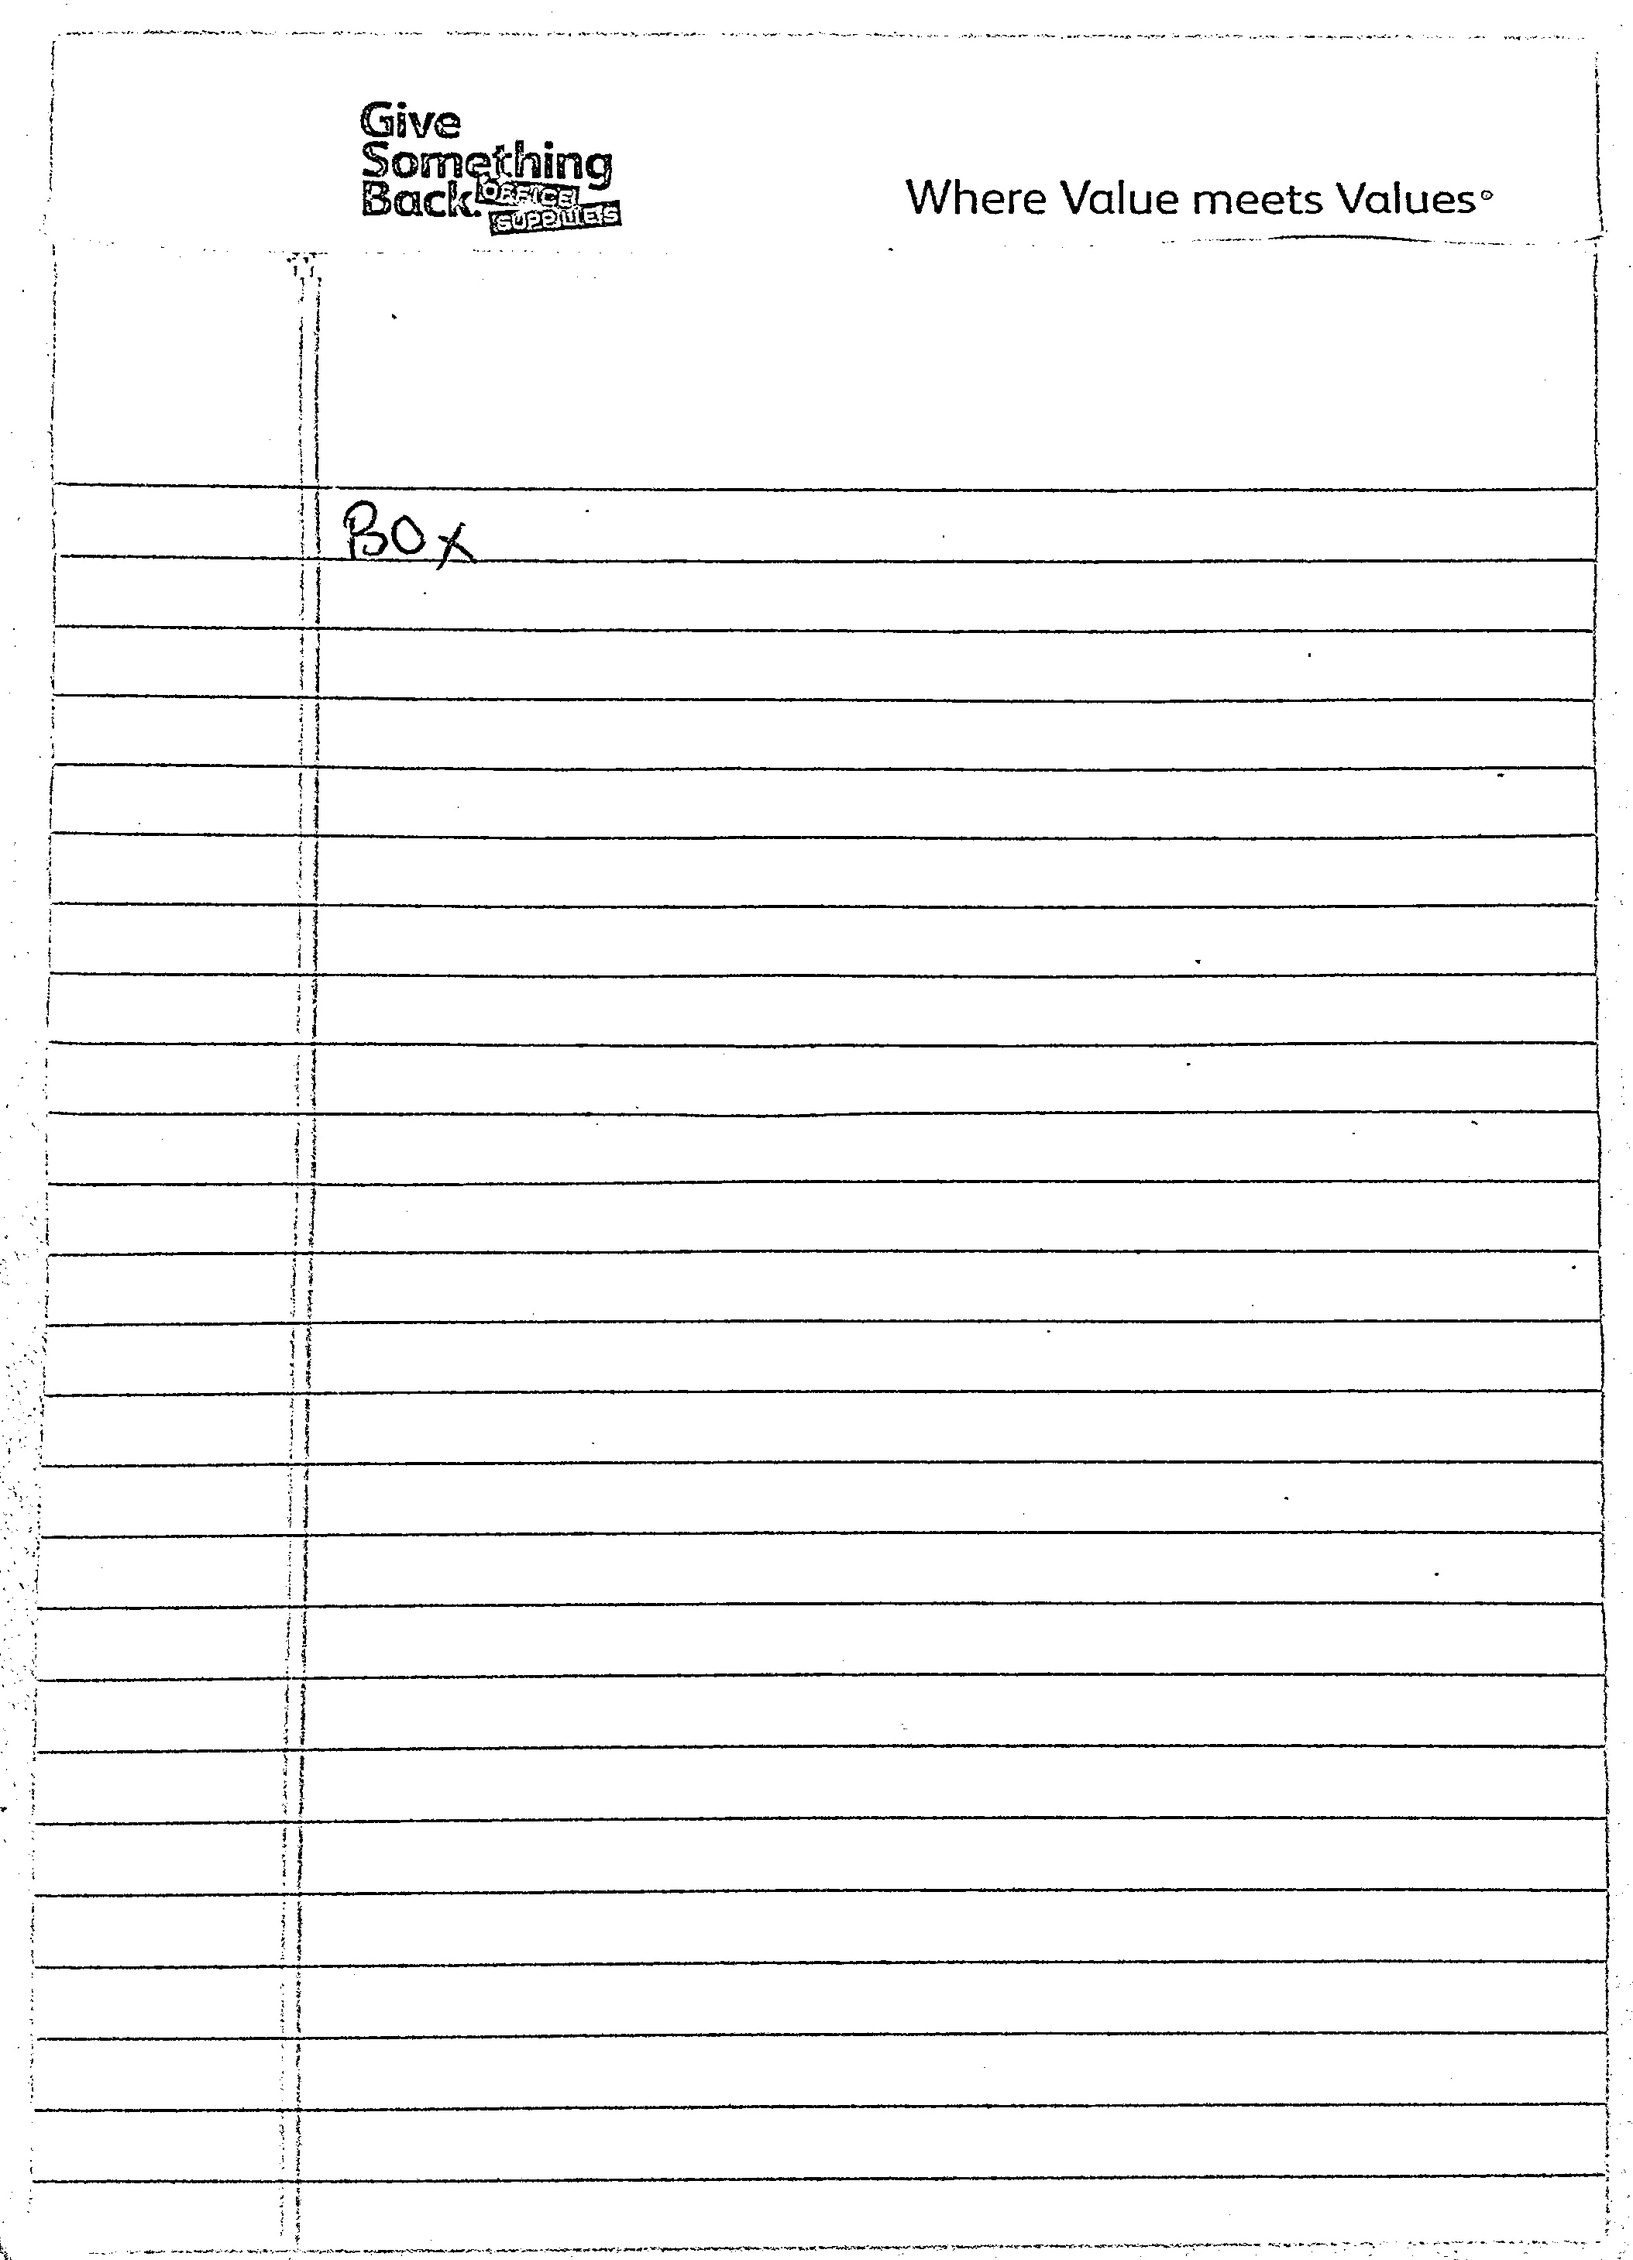
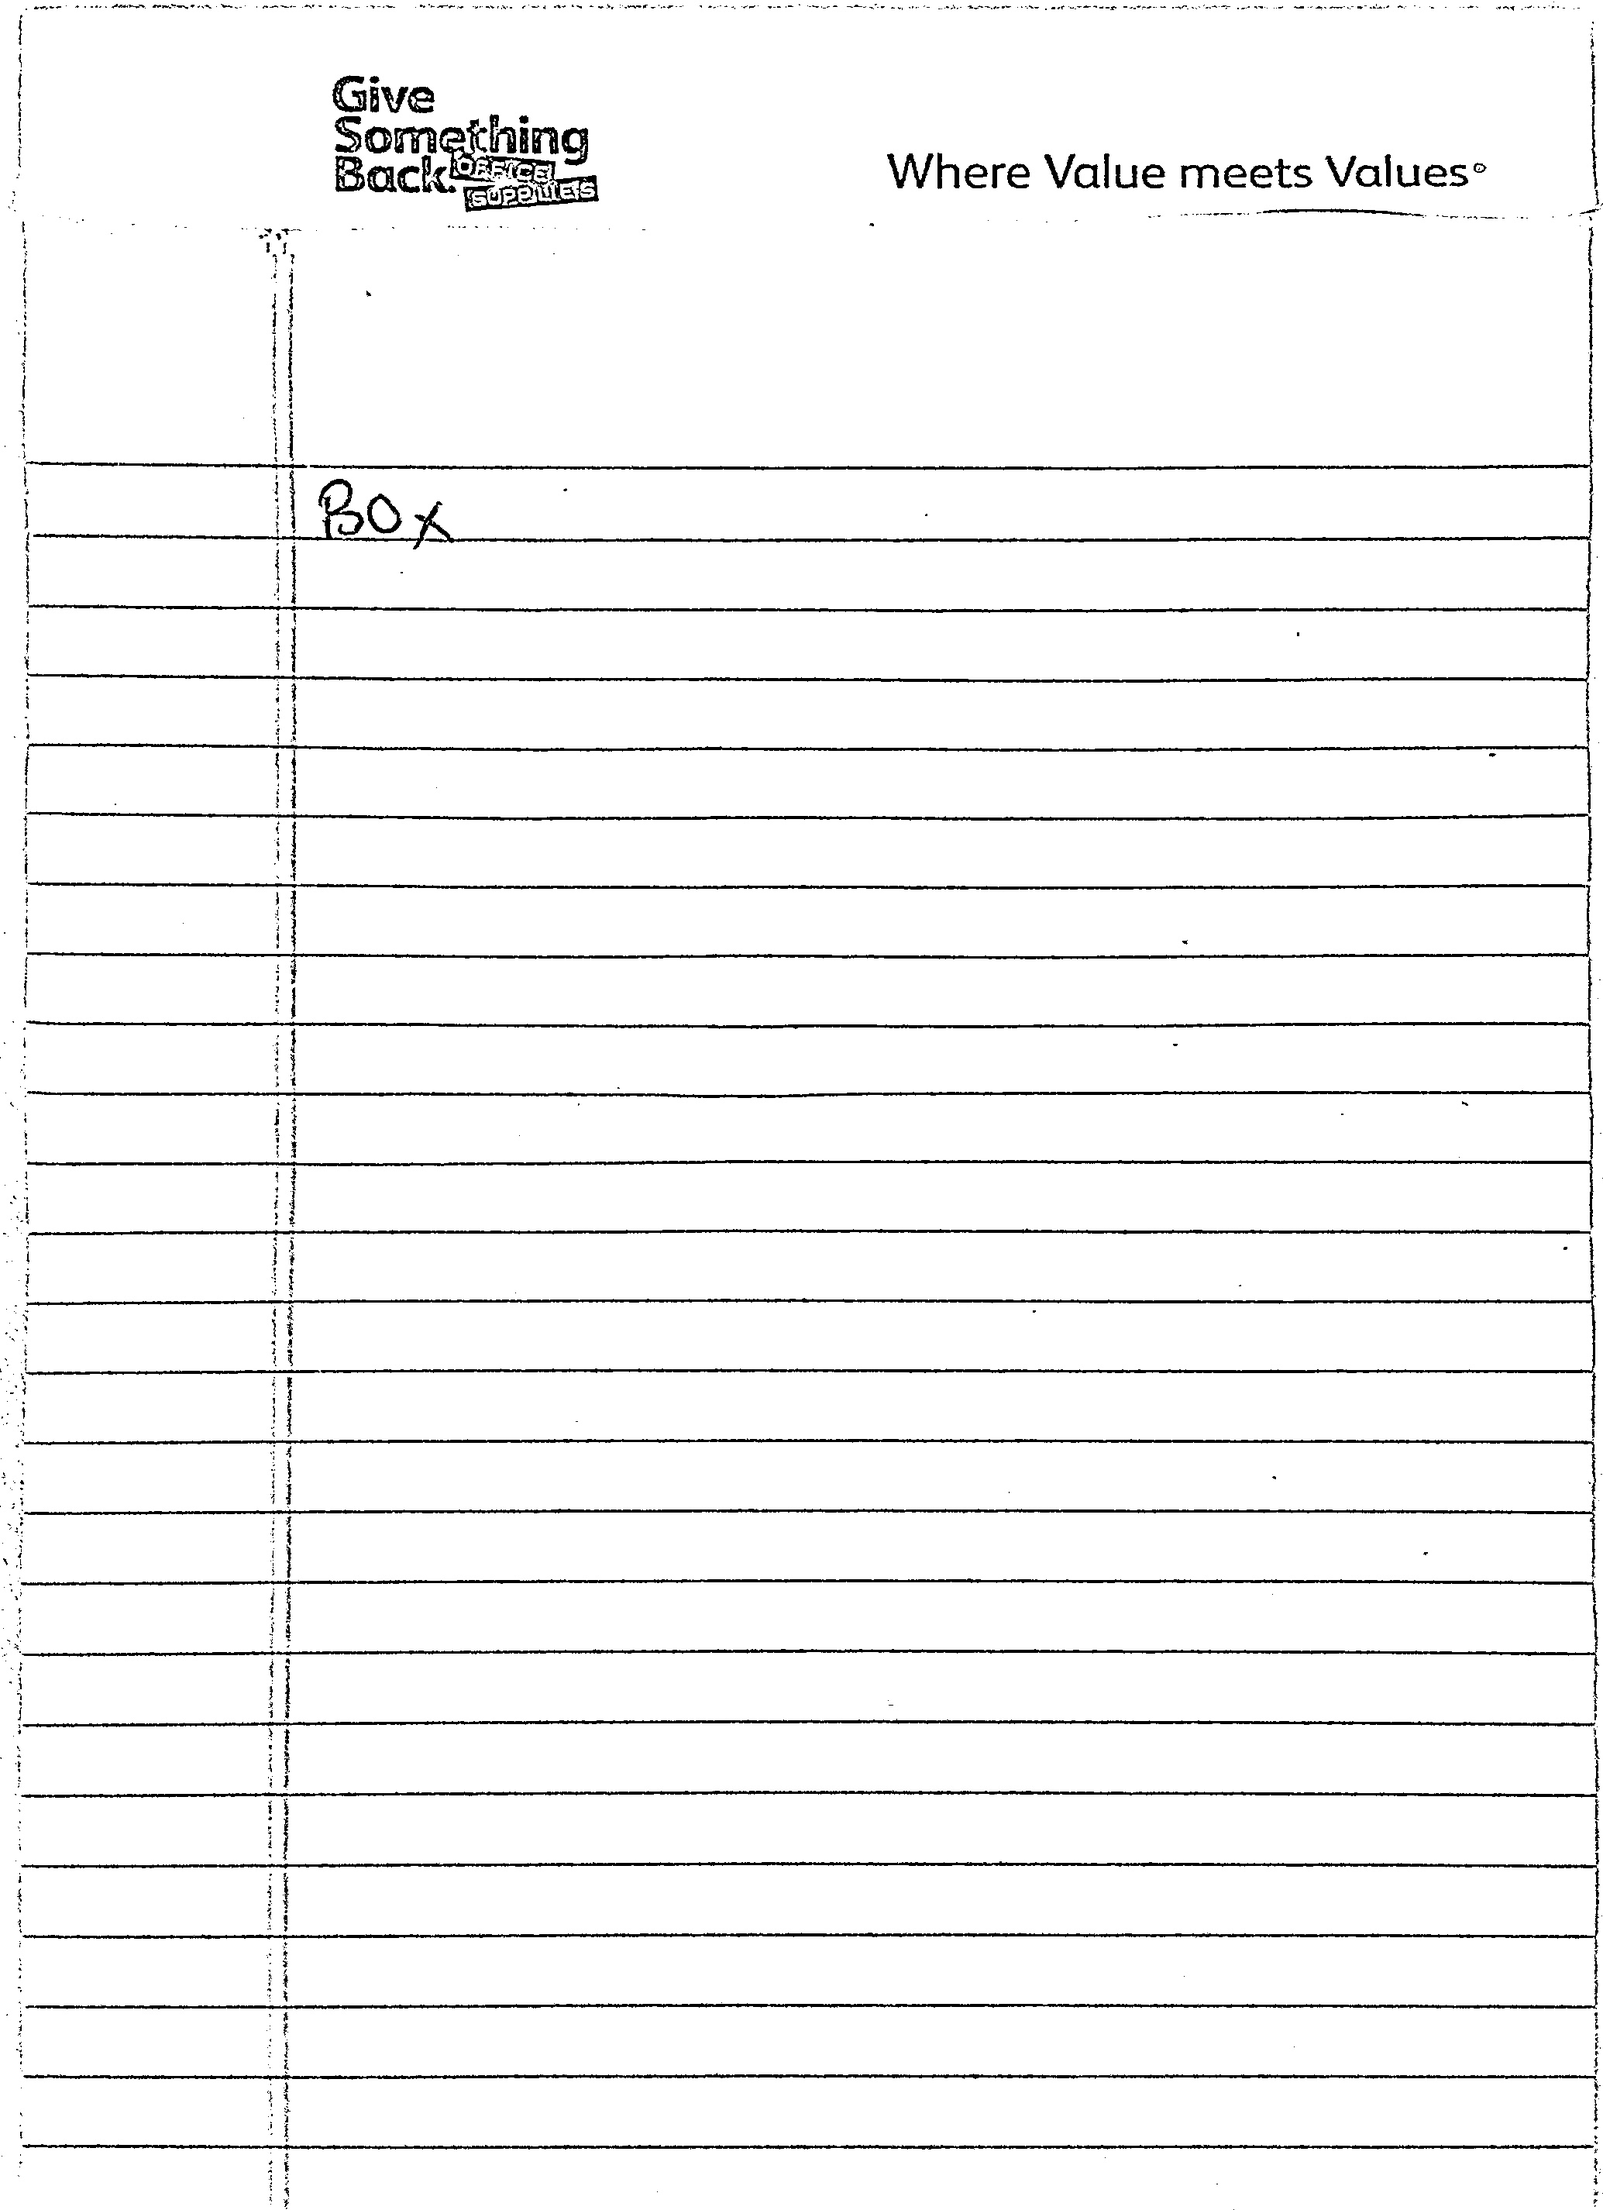
Add flag to preserve color

diff --git a/scan.py b/scan.py
@@ -25,7 +25,7 @@ import os
 class DocScanner(object):
     """An image scanner"""
 
-    def __init__(self, interactive=False, MIN_QUAD_AREA_RATIO=0.25, MAX_QUAD_ANGLE_RANGE=40):
+    def __init__(self, interactive=False, color_preserve=False, MIN_QUAD_AREA_RATIO=0.25, MAX_QUAD_ANGLE_RANGE=40):
         """
         Args:
             interactive (boolean): If True, user can adjust screen contour before
@@ -37,6 +37,7 @@ class DocScanner(object):
                 of its interior angles exceeds MAX_QUAD_ANGLE_RANGE. Defaults to 40.
         """        
         self.interactive = interactive
+        self.color_preserve = color_preserve
         self.MIN_QUAD_AREA_RATIO = MIN_QUAD_AREA_RATIO
         self.MAX_QUAD_ANGLE_RANGE = MAX_QUAD_ANGLE_RANGE        
 
@@ -285,21 +286,24 @@ class DocScanner(object):
             screenCnt = self.interactive_get_contour(screenCnt, rescaled_image)
 
         # apply the perspective transformation
-        warped = transform.four_point_transform(orig, screenCnt * ratio)
+        output = transform.four_point_transform(orig, screenCnt * ratio) #warped
 
-        # convert the warped image to grayscale
-        gray = cv2.cvtColor(warped, cv2.COLOR_BGR2GRAY)
+        if self.color_preserve == False:
 
-        # sharpen image
-        sharpen = cv2.GaussianBlur(gray, (0,0), 3)
-        sharpen = cv2.addWeighted(gray, 1.5, sharpen, -0.5, 0)
+            # convert the warped image to grayscale
+            gray = cv2.cvtColor(output, cv2.COLOR_BGR2GRAY)
 
-        # apply adaptive threshold to get black and white effect
-        thresh = cv2.adaptiveThreshold(sharpen, 255, cv2.ADAPTIVE_THRESH_GAUSSIAN_C, cv2.THRESH_BINARY, 21, 15)
+            # sharpen image
+            sharpen = cv2.GaussianBlur(gray, (0,0), 3)
+            sharpen = cv2.addWeighted(gray, 1.5, sharpen, -0.5, 0)
+
+            # apply adaptive threshold to get black and white effect
+            output = cv2.adaptiveThreshold(sharpen, 255, cv2.ADAPTIVE_THRESH_GAUSSIAN_C, cv2.THRESH_BINARY, 21, 15) #thresh
+
 
         # save the transformed image
         basename = os.path.basename(image_path)
-        cv2.imwrite(OUTPUT_DIR + '/' + basename, thresh)
+        cv2.imwrite(OUTPUT_DIR + '/' + basename, output)
         print("Proccessed " + basename)
 
 
@@ -310,13 +314,17 @@ if __name__ == "__main__":
     group.add_argument("--image", help="Path to single image to be scanned")
     ap.add_argument("-i", action='store_true',
         help = "Flag for manually verifying and/or setting document corners")
+    ap.add_argument("-c", action='store_true',
+        help = "Flag to preserve color on the cropped images")
 
     args = vars(ap.parse_args())
     im_dir = args["images"]
     im_file_path = args["image"]
     interactive_mode = args["i"]
+    color_preserve_mode = args["c"]
 
-    scanner = DocScanner(interactive_mode)
+    scanner = DocScanner(interactive=interactive_mode,
+                            color_preserve=color_preserve_mode)
 
     valid_formats = [".jpg", ".jpeg", ".jp2", ".png", ".bmp", ".tiff", ".tif"]
 
